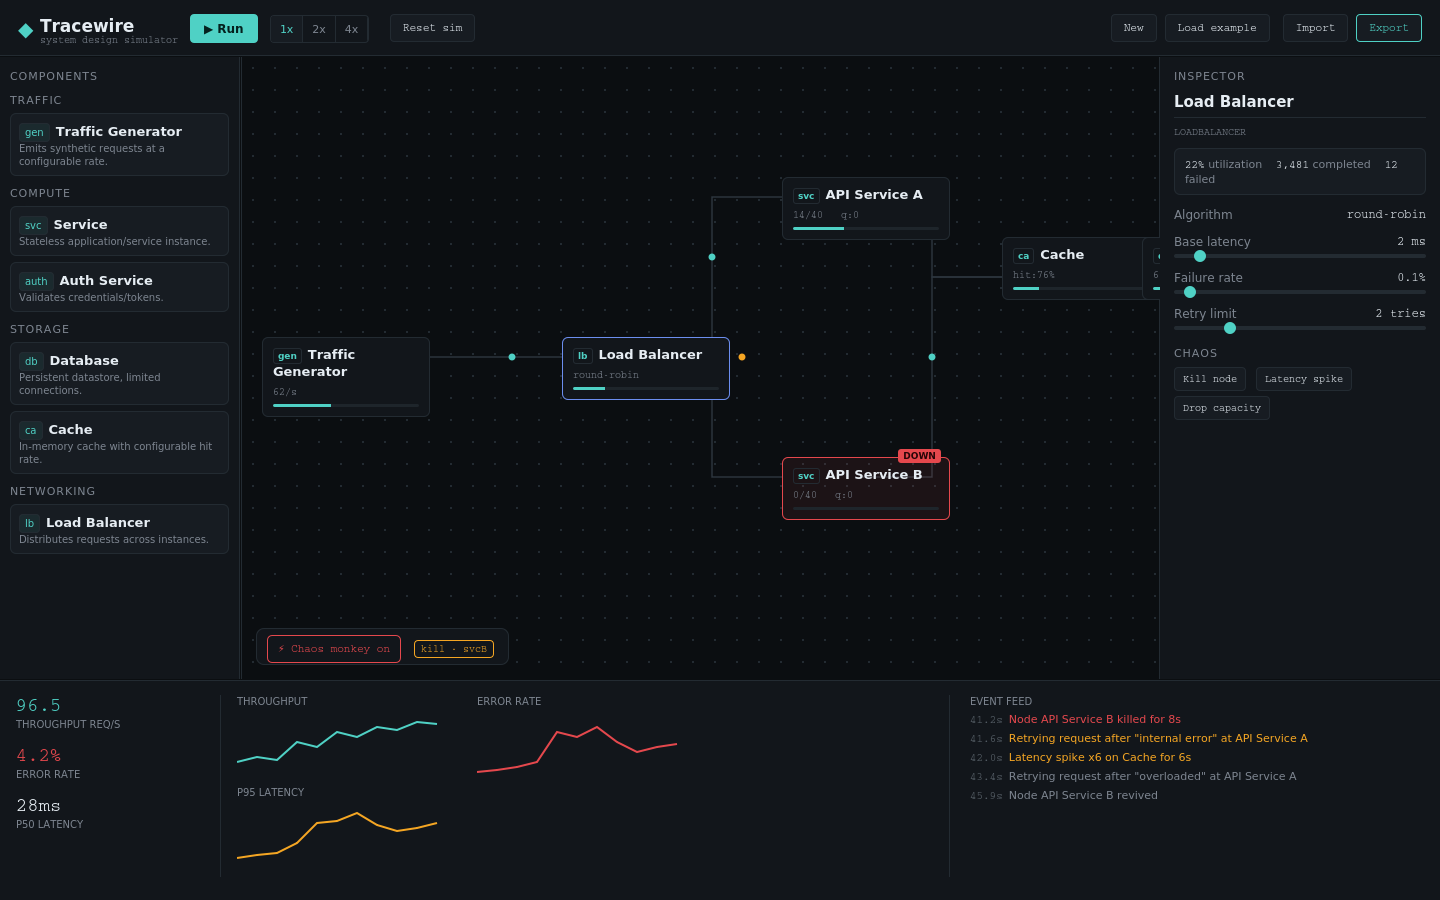
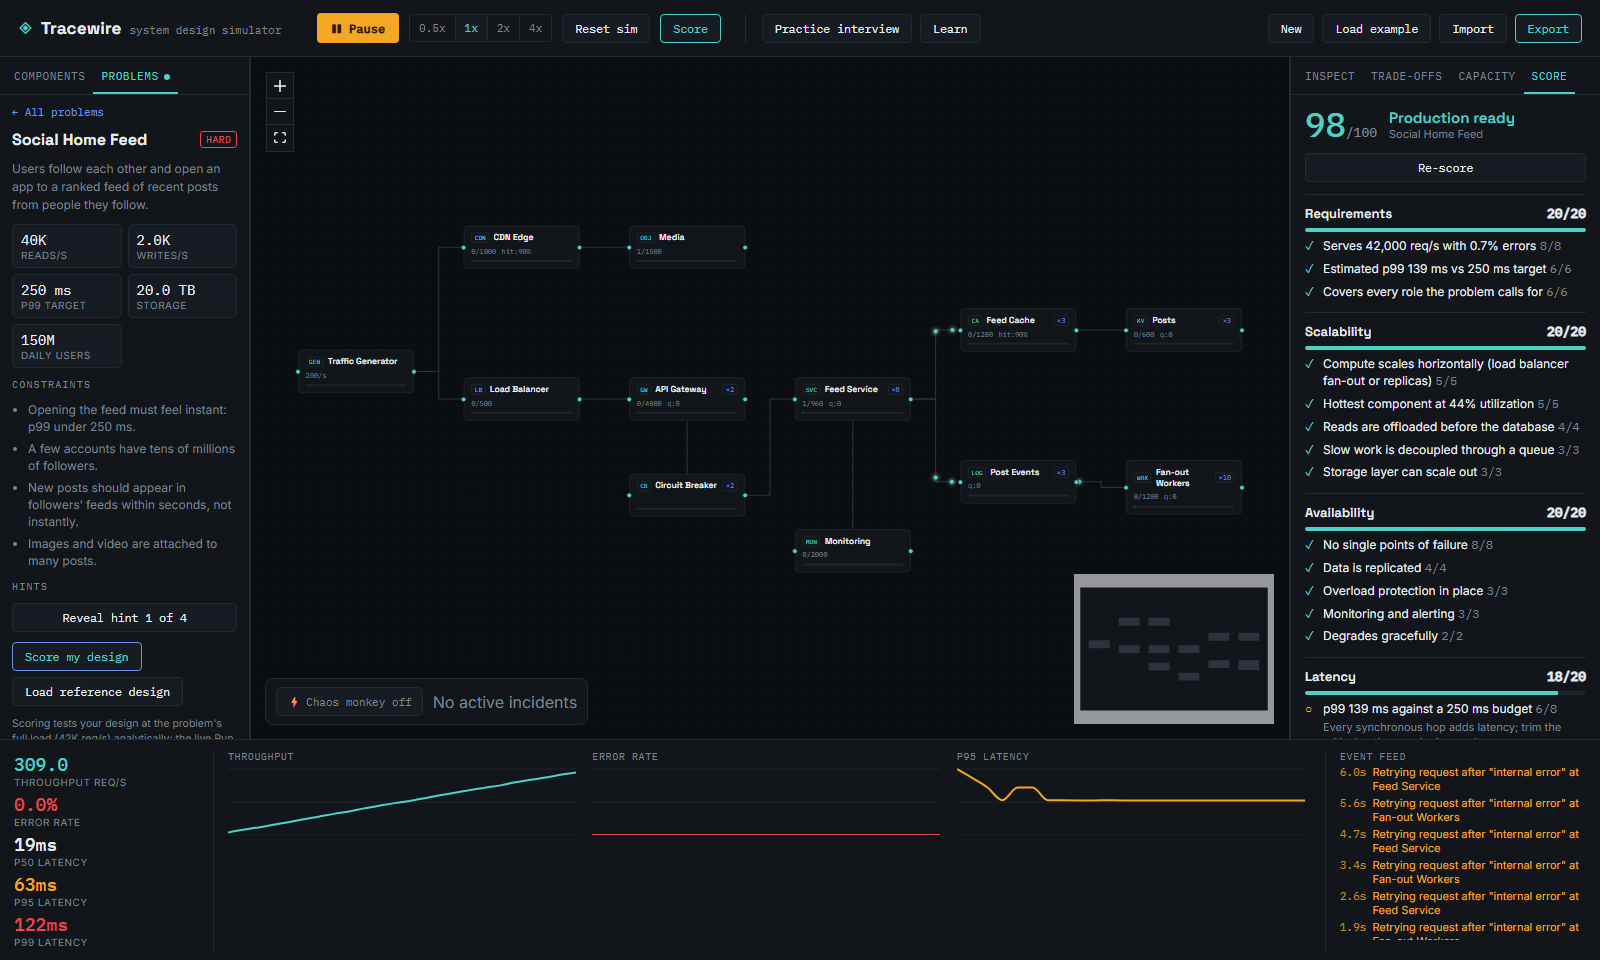
docs: document new features, refresh screenshots, fill repo placeholders
Also moves the canvas zoom controls to the top-left; the chaos dock was
covering them at the bottom-left.

diff --git a/src/components/Canvas/FlowCanvas.jsx b/src/components/Canvas/FlowCanvas.jsx
@@ -81,7 +81,7 @@ export default function FlowCanvas() {
         fitView
       >
         <Background variant={BackgroundVariant.Dots} gap={22} size={1} color="var(--grid-dot)" />
-        <Controls showInteractive={false} />
+        <Controls showInteractive={false} position="top-left" />
         <MiniMap pannable zoomable className="tw-minimap" nodeColor={(n) => (n.type === 'note' ? 'var(--note)' : 'var(--trace)')} />
       </ReactFlow>
     </div>

diff --git a/README.md b/README.md
@@ -12,6 +12,10 @@ It's built for learning and teaching system design, prototyping
 architectures, and stress-testing "what happens if X goes down" scenarios
 without touching real infrastructure.
 
+It also works as an interview trainer: pick a practice problem, design
+against its requirements, size it with the capacity planner, and get a
+scored breakdown with concrete fixes.
+
 ![Tracewire interface overview](docs/screenshots/interface-overview.png)
 
 ---
@@ -33,9 +37,43 @@ without touching real infrastructure.
 
 - **Visual architecture canvas** — drag-and-drop components, connect them
   with a click-and-drag, pan/zoom, minimap.
-- **Built-in component library** — Traffic Generator, Load Balancer (round
-  robin / least-connections / random), Service, Database, Cache, Message
-  Queue, CDN Edge, Auth Service, Message Broker, Rate Limiter, Client.
+- **39 built-in components** in six searchable categories:
+  - *Traffic*: Traffic Generator, Client
+  - *Networking*: DNS, CDN Edge, Origin Shield, Load Balancer (round robin /
+    least-connections / random), Reverse Proxy, API Gateway, Rate Limiter
+  - *Compute*: Service, Auth Service, WebSocket Server, Worker Pool, Task
+    Scheduler, Stream Processor, Notification Service
+  - *Storage*: SQL, NoSQL, Cache, Object Storage, File Store, Search Index,
+    Graph DB, Time-Series DB, Data Warehouse, Vector DB, Geospatial Index
+  - *Messaging*: Message Queue, Pub/Sub Broker, Event Log
+  - *Infrastructure*: Circuit Breaker, Monitoring, Service Mesh, Service
+    Discovery, Coordination Service, Distributed Lock, ID Generator,
+    Sharded Counter, Config Service
+- **Replicas** on every scalable component, so capacity planning is a
+  number you can turn, and a single replica shows up as a single point of
+  failure.
+- **Practice problems** — eight design problems (link shortener, social
+  feed, group chat, API quotas, video streaming, ride matching,
+  notifications, flash-sale checkout), each with peak requirements,
+  constraints, hints revealed one at a time, and a loadable reference design.
+- **Design scoring** — grades the canvas out of 100 across requirements,
+  scalability, availability, latency and cost. It tests the design at the
+  problem's full load (tens of thousands of req/s) with a steady-state model:
+  per-component throughput from Little's law, M/M/c queueing delay,
+  critical-path p99, single-point-of-failure detection and replica sizing.
+  Every missed check comes with a fix.
+- **Capacity planner** — back-of-envelope estimator (DAU → QPS, storage,
+  egress) plus a per-component load table and one-click "right-size
+  replicas".
+- **Trade-offs** — gains, costs and alternatives for the selected component.
+- **Practice interview mode** — six timed phases (clarify → estimate → API &
+  data → high-level design → deep dive → wrap-up) with prompts per phase.
+- **Sticky notes** on the canvas for assumptions and open questions.
+- **Learn drawer** — concept cards (Little's law, queueing, caching,
+  replication, CAP, backpressure, idempotency, SLOs) and this-vs-that
+  comparisons (SQL vs NoSQL, push vs pull, and more).
+- **Keyboard support** — Tab/Enter/arrows on the canvas, Delete, Esc,
+  Space to run/pause, S to score, Enter on a palette item to add it.
 - **Custom component builder** — define your own reusable node type by
   toggling capacity limits, latency, random failures, queueing, and
   cache-like hit-rate behavior. No coding required.
@@ -48,6 +86,8 @@ without touching real infrastructure.
     wrong)
   - Queue backpressure and overflow handling
   - Load-balanced failover across healthy backends
+  - Caches and CDNs that answer hits locally and only forward misses
+  - Circuit breakers that fail fast while every downstream is down or full
 - **Chaos injection** — kill/revive nodes, sever/heal connections, latency
   spikes, capacity drops, and an automatic "chaos monkey" mode that breaks
   things on its own on a timer.
@@ -93,7 +133,7 @@ your terminal.
 ### Install & run (development mode)
 
 ```bash
-git clone https://github.com/<your-username>/tracewire.git
+git clone https://github.com/perumallavishnu/tracewire.git
 cd tracewire
 npm install
 npm run dev
@@ -128,8 +168,8 @@ to stand up.
 
 ## How to use it
 
-1. **Drag components onto the canvas** from the left palette. Drop them
-   anywhere.
+1. **Drag components onto the canvas** from the left palette (or focus one
+   and press Enter). Use the search box to find one of the 39 types.
 2. **Connect components** by dragging from the small dot on the right edge
    of one component to the dot on the left edge of another.
 3. **Click a component** to open the Inspector (right panel). Edit its
@@ -156,6 +196,24 @@ to stand up.
     share architectures. Your most recent diagram also auto-saves to your
     browser's local storage.
 
+### Practicing a design problem
+
+1. Open the **Problems** tab on the left and pick a problem. Read its
+   requirements and constraints; reveal hints only if you are stuck.
+2. Build your design, then open **Capacity** on the right. The estimator is
+   prefilled from the problem, and the load table shows each component at
+   the problem's peak. Press **Right-size replicas** or tune them by hand.
+3. Press **Score** (or the S key). Each category lists what earned points
+   and what to change.
+4. Compare with **Load reference design** (it replaces the canvas, so
+   export your own first).
+5. For a full mock interview, press **Practice interview** in the toolbar
+   and work through the timed phases.
+
+![Capacity planner](docs/screenshots/capacity.png)
+
+![Interview mode and trade-offs](docs/screenshots/interview-tradeoffs.png)
+
 ---
 
 ## Project structure
@@ -169,13 +227,21 @@ tracewire/
 │   ├── main.jsx                 React entry point
 │   ├── App.jsx                  App shell & simulation loop
 │   ├── styles/app.css           All styling (design tokens, layout, components)
-│   ├── nodeDefs/                Built-in component definitions & field schemas
-│   ├── simulation/engine.js     The simulation engine — traffic generation,
+│   ├── nodeDefs/                Component definitions, field schemas, trade-off notes
+│   ├── simulation/engine.js     The live simulation engine — traffic generation,
 │   │                            capacity/latency/failure modeling, retries,
 │   │                            cascading failure, chaos injection
-│   ├── store/                   Zustand stores (diagram graph, sim runtime)
-│   ├── utils/edgePath.js        Connection-line geometry helper
-│   └── components/              UI: Canvas, Palette, Inspector, Toolbar,
+│   ├── simulation/analyze.js    Steady-state model: load, utilization, queueing,
+│   │                            p99, single points of failure, replica sizing
+│   ├── scoring/score.js         100-point design rubric built on analyze.js
+│   ├── problems/                Practice problems and their reference designs
+│   ├── interview/phases.js      Mock-interview phases and prompts
+│   ├── learn/concepts.js        Learn drawer content
+│   ├── store/                   Zustand stores (diagram graph, sim runtime, UI)
+│   ├── utils/                   Connection geometry, number formatting
+│   └── components/              UI: Canvas, Palette, Problems, RightPanel
+│                                 (Inspect / Trade-offs / Capacity / Score),
+│                                 Interview bar, Learn drawer, Toolbar,
 │                                 Metrics dock, Chaos dock, Node builder modal
 ```
 
@@ -197,8 +263,9 @@ See [`CONTRIBUTING.md`](CONTRIBUTING.md) for more detail, including coding
 conventions and how new node types / chaos effects are structured.
 
 Good first areas to contribute in:
-- New built-in component types (e.g. object storage, sharded database, API
-  gateway)
+- New practice problems (with a reference design that scores 90+)
+- Richer component behavior (e.g. read replicas with replication lag,
+  sharding with hot keys)
 - Additional chaos scenarios (e.g. clock skew, DNS failure, disk full)
 - Accessibility and mobile/touch support for the canvas
 - Alternate persistence backends (e.g. exporting to draw.io/Mermaid)
@@ -208,17 +275,12 @@ Good first areas to contribute in:
 ## Reporting bugs / getting help
 
 - **Bugs & feature requests**: please open a
-  [GitHub Issue](https://github.com/<your-username>/tracewire/issues) on
+  [GitHub Issue](https://github.com/perumallavishnu/tracewire/issues) on
   this repository, including steps to reproduce and, if relevant, your
   exported diagram JSON.
 - **Questions / general discussion**: use
-  [GitHub Discussions](https://github.com/<your-username>/tracewire/discussions)
+  [GitHub Discussions](https://github.com/perumallavishnu/tracewire/discussions)
   if enabled on the repo, or open an issue tagged `question`.
-- **Direct contact**: `<your-contact-email>`
-
-> Maintainer note: replace the placeholders above (`<your-username>`,
-> `<your-contact-email>`) with your actual GitHub repository path and
-> contact details before publishing.
 
 ---
 

diff --git a/docs/research/feature-comparison.md b/docs/research/feature-comparison.md
@@ -1,0 +1,73 @@
+# Feature comparison: SystemSim vs Tracewire
+
+This compares Tracewire with [SystemSim](https://system-design-simulator.yashlunawat.com),
+a hosted system-design interview simulator. We studied how it behaves from the
+outside, using its UI and the publicly served page, to find features worth
+adding. No SystemSim code, text or assets were copied. Tracewire's problems,
+scoring rubric, trade-off notes, learn content and engine are written
+independently.
+
+## What SystemSim does (behavior, October 2026)
+
+- **Component palette**: about 36 components in five categories (networking,
+  compute, storage, messaging, infrastructure). Each has a max-QPS figure and
+  a base latency.
+- **Problems**: about 40 interview problems and "X vs Y" topics. Each has
+  read/write QPS, storage, a latency SLA and DAU, plus a list of
+  constraints, four staged hints, a reference solution and tags. Users can
+  also create custom problems.
+- **Simulate**: a static flow pass at a chosen load (light to stress
+  presets). It propagates QPS through the graph and computes per-node
+  utilization, latency inflation near saturation, bottlenecks and
+  critical-path latency.
+- **Score**: a rule-based rubric of five categories × 20 points
+  (scalability, availability, latency, cost efficiency, trade-offs). Each
+  check produces passed items or improvement feedback. Verdict bands run
+  from "needs work" to "architect level".
+- **Capacity / Trade-offs tabs**: an estimation helper (DAU → QPS, peak
+  factor, bandwidth, storage) and per-component "when to use / when not to /
+  key trade-offs" notes.
+- **Practice interview**: a timed, phase-based flow (requirements,
+  estimation, API, data model, high-level design, deep dive).
+- **Also**: canvas notes, a reference/learn section, save/load/export, and
+  keyboard navigation.
+
+## Gap analysis
+
+| Capability | Tracewire before | Tracewire now |
+|---|---|---|
+| Component library | 11 kinds | 39 kinds in 6 categories, searchable, with replicas |
+| Live time-based simulation | ✅ (unique to Tracewire) | ✅, plus circuit breakers and cache hits that short-circuit |
+| Chaos injection | ✅ (unique to Tracewire) | ✅ |
+| Practice problems | — | 8 original problems with hints and reference designs |
+| Steady-state load analysis | — | `analyze.js`: Little's law capacity, M/M/c queueing, p99 path, SPOFs |
+| Design scoring | — | 100-point rubric: requirements, scalability, availability, latency, cost |
+| Capacity planning | — | Estimator + per-component load table + right-size replicas |
+| Trade-off notes | — | Gains, costs and alternatives for all 39 components |
+| Interview mode | — | Six timed phases with prompts |
+| Notes on canvas | — | Sticky notes, exported with the diagram |
+| Learn / reference | — | 10 concept cards + 5 comparisons |
+| Keyboard support | partial (React Flow defaults) | Delete, Esc, Space, S, Enter-to-add from palette |
+
+## Where Tracewire deliberately differs
+
+- **Two models instead of one.** SystemSim only does a static pass.
+  Tracewire keeps its live, tick-based engine (retries, backpressure, chaos
+  over time) and adds a steady-state model for scoring. Both follow the same
+  flow rules, so Score and Run agree.
+- **Scoring tests real load.** The rubric runs the design at the problem's
+  peak QPS and grades errors, p99 against the SLA, saturation and missing
+  architectural roles. It looks at more than which components are present.
+- **SPOFs come from graph analysis.** A node is a single point of failure
+  when it has one replica and losing it cuts traffic off from a sink.
+  Managed services (DNS, CDN, cloud LBs, object storage) are treated as
+  highly available.
+- **Async work is off the latency path.** Anything reachable only through a
+  queue doesn't count toward user-facing p99.
+
+## Not adopted (yet)
+
+- Custom user-defined problems
+- "X vs Y" topics as scored problems (Tracewire covers them in the Learn
+  drawer instead)
+- Light/medium/heavy/stress load presets (Capacity takes any test load)

diff --git a/CONTRIBUTING.md b/CONTRIBUTING.md
@@ -6,7 +6,8 @@ please keep changes focused and readable.
 ## Getting set up
 
 ```bash
-git clone https://github.com/<your-username>/tracewire.git
+# fork on GitHub first, then clone your fork
+git clone https://github.com/<your-github-username>/tracewire.git
 cd tracewire
 npm install
 npm run dev
@@ -38,14 +39,20 @@ detailed walkthrough and troubleshooting.
 - **No new heavy dependencies without discussion.** The project intentionally
   stays small (React, Vite, @xyflow/react, Zustand, Recharts). If a feature
   seems to need a new dependency, open an issue first.
-- **Simulation logic lives in `src/simulation/engine.js` only.** UI
-  components should read from the engine's snapshot, not duplicate
-  simulation math.
+- **Simulation logic lives in `src/simulation/`.** `engine.js` is the live,
+  tick-based simulation; `analyze.js` is the steady-state model used by
+  scoring and the capacity planner. Keep their flow rules in step (load
+  balancers split, caches answer hits, generic nodes fan out). UI components
+  read from these, they don't duplicate the math.
 - **New built-in component types** go in `src/nodeDefs/nodeTypes.js`
   (defaults) and `src/nodeDefs/fieldSchemas.js` (which fields the Inspector
-  exposes), then need a corresponding branch in
-  `SimulationEngine._processAtNode()` if their behavior isn't already
-  covered by the generic capacity/latency/failure/queue/cache logic.
+  exposes, only needed if the defaults don't fit). Set `behavior` to reuse
+  an existing engine path (`cache`, `queue`, `loadbalancer`, `ratelimiter`,
+  `circuitbreaker`), set `tags` so scoring knows its architectural role, and
+  add an entry to `src/nodeDefs/tradeoffs.js`. Only add a branch in
+  `SimulationEngine._processAtNode()` for genuinely new behavior.
+- **New practice problems** go in `src/problems/problems.js`. Ship a
+  reference design that scores 90+ against its own requirements.
 - **New chaos effects** should follow the existing pattern in
   `engine.js`: an `activeEffects` entry with a `type`, `targetId`, and
   `expiresAt`, applied in `_effectiveConfig()` and cleaned up in
@@ -65,7 +72,7 @@ Please include:
 - If possible, export your diagram (toolbar → Export) and attach the JSON
 
 Open bugs and feature requests as
-[GitHub Issues](https://github.com/<your-username>/tracewire/issues).
+[GitHub Issues](https://github.com/perumallavishnu/tracewire/issues).
 
 ## Code of conduct
 

diff --git a/SETUP.md b/SETUP.md
@@ -35,7 +35,7 @@ paid account.
 Clone the repository:
 
 ```bash
-git clone https://github.com/<your-username>/tracewire.git
+git clone https://github.com/perumallavishnu/tracewire.git
 cd tracewire
 ```
 
